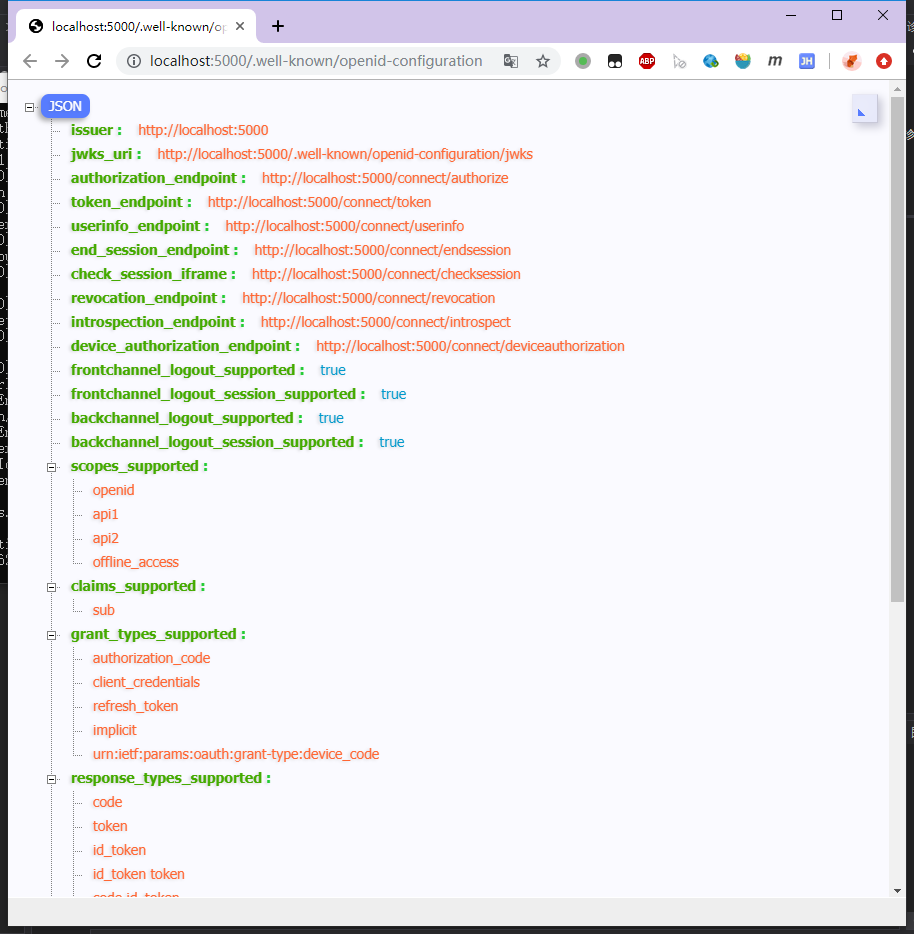
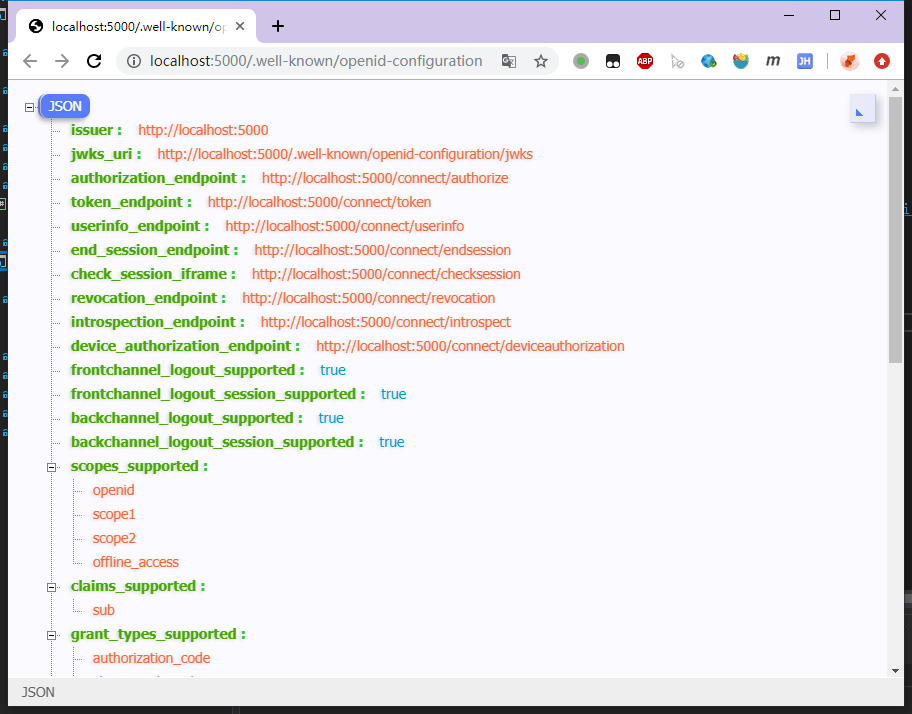
更新文档

diff --git a/docs/1.ClientCredentials/客户端凭证授权模式.md b/docs/1.ClientCredentials/客户端凭证授权模式.md
@@ -1,6 +1,33 @@
 # 客户端凭证授权模式
 
-## 准备
+## 基础知识
+
+### 客户端凭证授权模式
+
+## 结果先行
+
+本章欲从零开始搭建一个基于IdentityServer4的客户端凭证授权模式实现身份认证的项目。
+
+搭建完成后的项目如下图所示：
+
+
+
+![](项目整览.png)
+其中，Api为接口项目，即我们要保护的资源对象。Client为客户端项目，是请求资源的对象，即被要求提供身份证明进行认证的对象。IdentityServer为认证授权服务，其负责验证身份提供认证令牌。
+
+我们想要做到，Api项目里放出的接口，不能让任何人都可以随意调用，而是只有提供了特定的身份标识（客户端Id\+密码）的客户端才可以调用。
+
+当客户端请求接口的同时提供身份认证的标识，则可以成功请求接口，获取资源：
+
+
+
+![](客户端-调用结果.png)
+当客户端不提供身份认证的标识时，调用受保护的接口，将被拒绝访问：
+
+![](客户端-未授权.png)
+目的知道了，下面就从零开始，搭建项目。
+
+## 准备工作
 
 创建新项目—\>ASP.NET Core Web应用程序—\>下一步
 
@@ -14,6 +41,10 @@
 完成后如下图所示
 
 ![](创建4.png)
+项目默认会以IIS Express宿主模式调式，但是我们想看到项目把具体的运行情况打印到控制到，所以建议改为自宿主的模式调试。
+
+### 改为自宿主模式
+
 打开launchSettings.json，删除profiles节点下的IIS Express节点，将自宿主的端口改为5000
 
 ```json
@@ -40,7 +71,7 @@
 ```  }
 }
 ```
-## 集成IdentityServer4
+## 集成IdentityServer4服务
 
 ### 导包
 
@@ -80,8 +111,7 @@ public static class Config
     {
         return new List<ApiResource>
         {
-            new ApiResource("api1", "My API"),
-            new ApiResource("api2", "My API2"),
+            new ApiResource("scope1", "My API1"),
         };
     }
 
@@ -110,7 +140,7 @@ public static class Config
 }
 ```}
 ```
-需要添加引用using IdentityServer4.Models;
+需要添加引用包using IdentityServer4.Models;
 
 其中GetIdentityResources\(\)函数用于获取可用于认证授权的身份资源类型，IdentityServer封装了几种常用的如下所示：
 
@@ -191,16 +221,18 @@ public class Startup
 ```
 
 
-点击运行调试，
+点击运行调试，默认访问的是localhost:5000
 
 
 
 ![](IdentityServer启动.png)
-访问地址http://localhost:5000/.well\-known/openid\-configuration，可以看到该授权服务器的基本信息：
+访问地址http://localhost:5000/.well\-known/openid\-configuration，可以看到一串json信息：
 
 
 
 ![](授权服务器基本信息.png)
+该json文件包含了当前认证授权服务的基本信息，比如服务地址、各种功能端点以及保护域集合等等。
+
 ## Api项目
 
 在相同解决方案下新建ASP.NET Core Web应用程序项目，模板选择Api，取消勾选HTTPS，点击创建。
@@ -213,7 +245,7 @@ public class Startup
 
 
 ![](api-配置.png)
-邮件Api项目，调试：
+右键Api项目，调试：
 
 
 
@@ -354,6 +386,13 @@ class Program
 }
 ```}
 ```
+客户端搭建完毕。
+
+
+
 运行调试IdentityServer，然后运行调试Api，最后运行调试客户端。
 
+
+
+![](客户端-调用结果.png)
 
